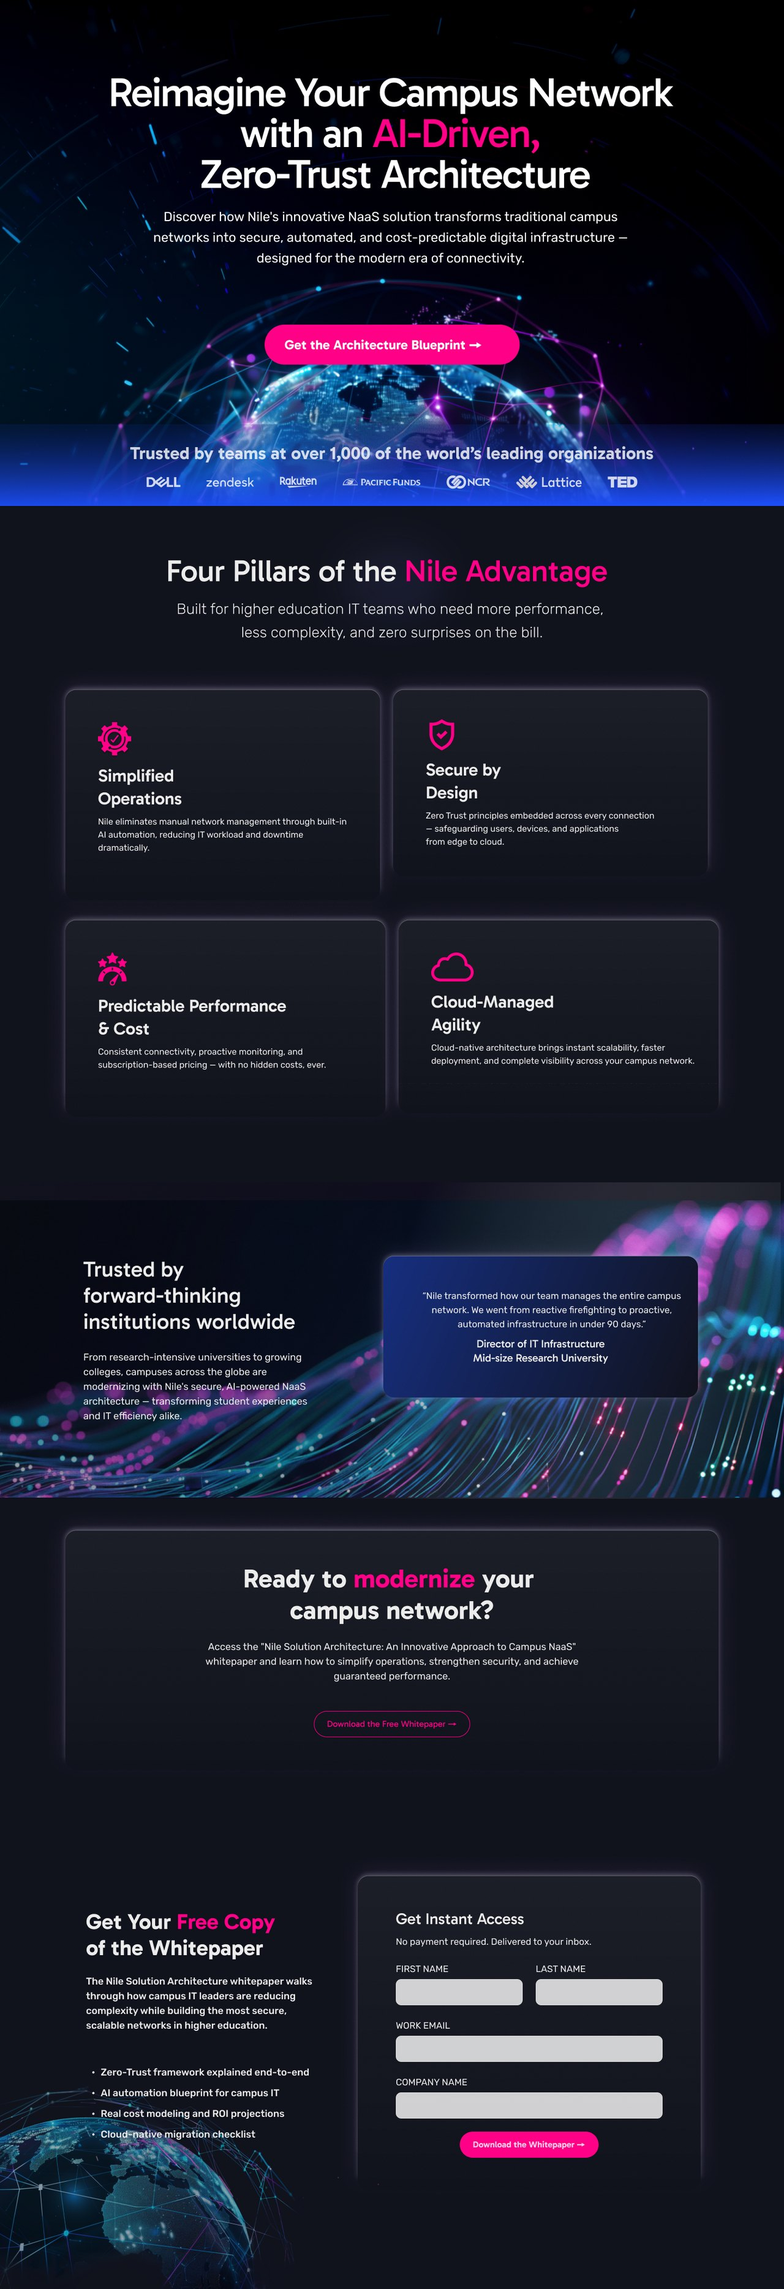
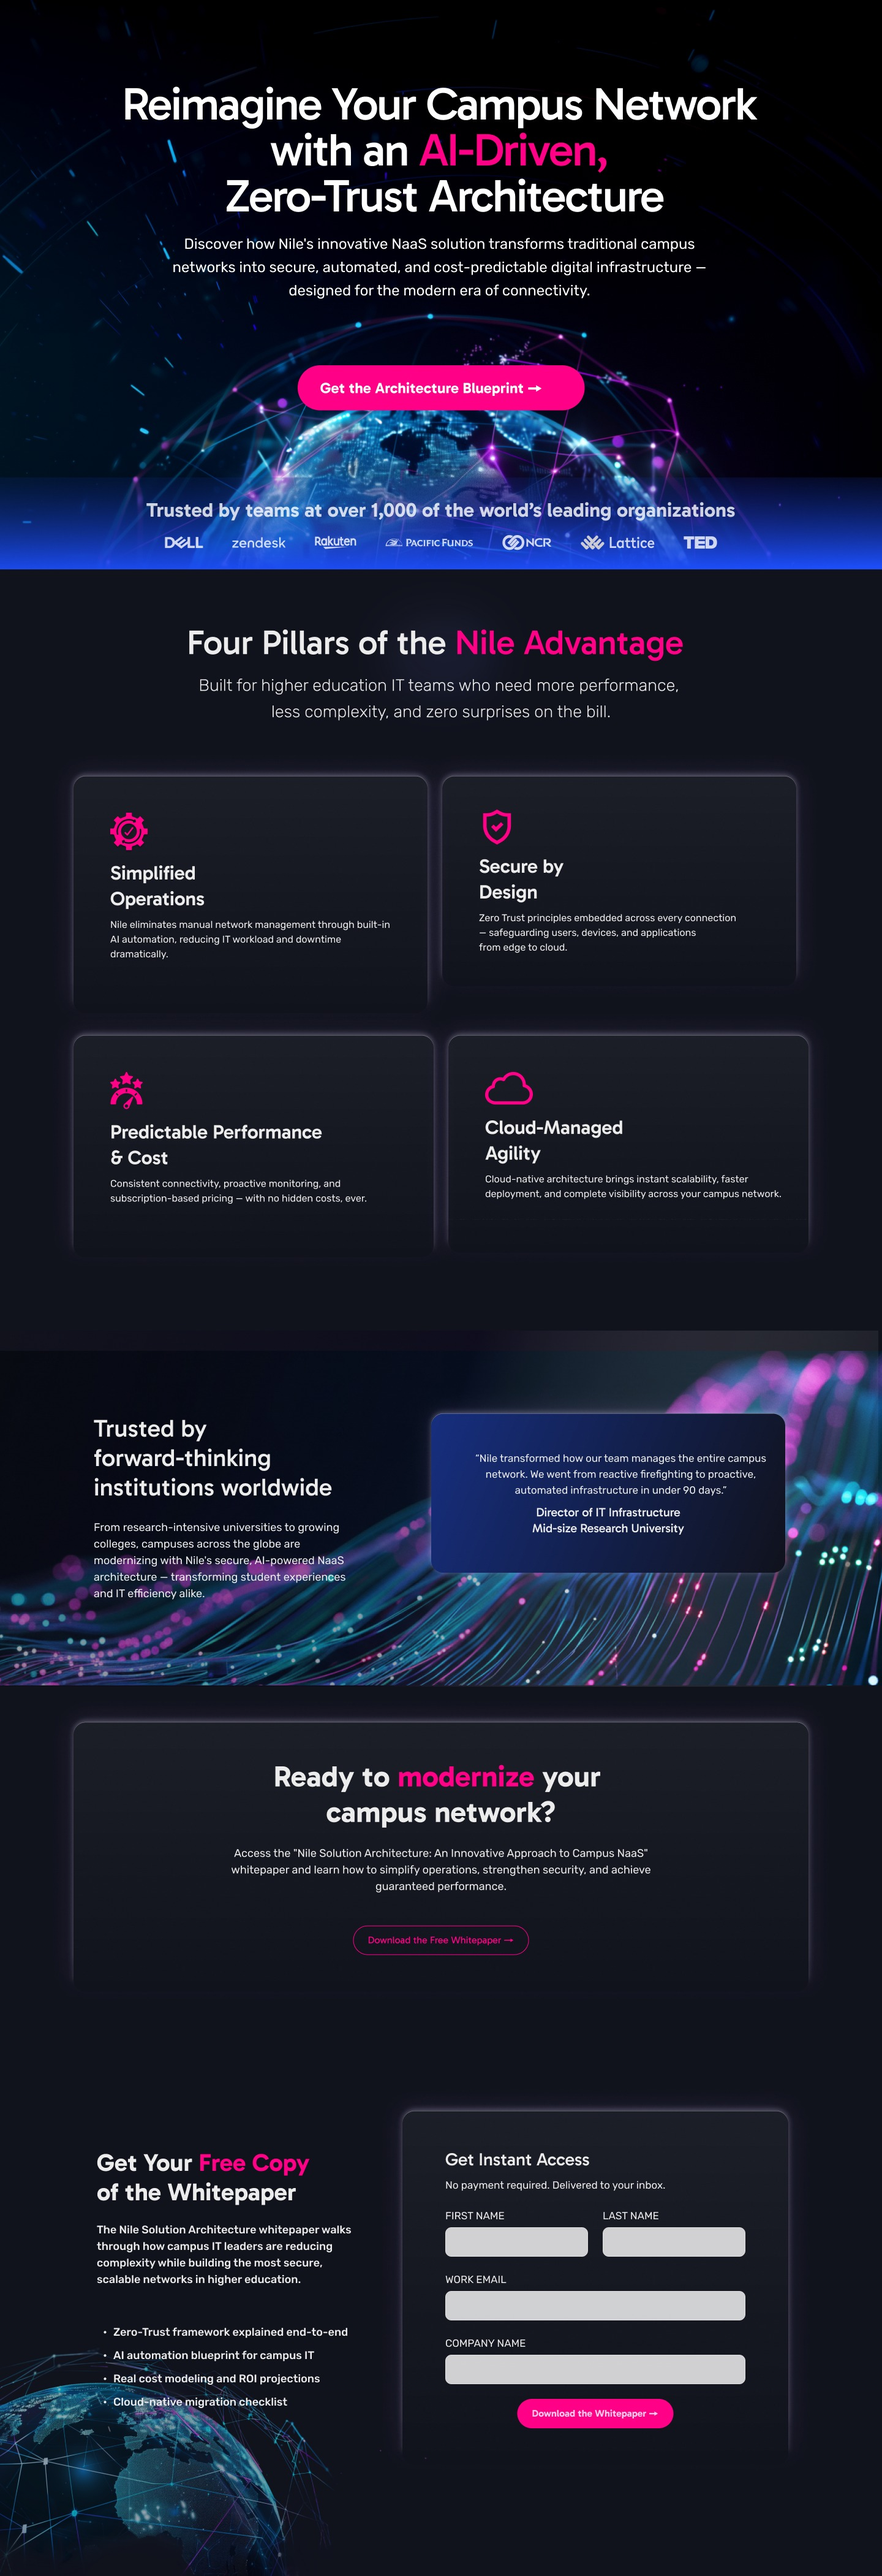
Nile: drop mobile from landing section, show landing full-width
Remove the mobile layout and present the full landing page at full
width, re-saved at native 1440px for maximum fidelity.

Claude-Session: https://claude.ai/code/session_01Pp782JCzyUxxDUfgbCFXi7

Changed region(s): [[0.125, 0.5899, 0.1562, 0.621]]

diff --git a/work/nile.html b/work/nile.html
@@ -81,8 +81,8 @@ footer{padding:1.5rem 2.5rem;border-top:.5px solid var(--border);display:flex;ju
 <section class="prose"><h2>Overview</h2><p>A self-initiated campaign suite for Nile&#x27;s AI-powered campus network, built as concept work ahead of a senior design conversation. It spans a landing page, social creative and display ads, all driving to one asset: the Architecture Blueprint whitepaper.</p></section>
 <section class="prose"><h2>The system</h2><p>Deep navy, fibre-optic light and a single hot-pink call to action. The direction is dark and cinematic — &ldquo;Reimagine your campus network&rdquo; — and the same visual language holds across every format so the campaign reads as one.</p></section>
 <div class="full"><div class="gal2"><figure class="figure"><img loading="lazy" src="../images/work/nile/g1.jpg" alt="Social creative — campaign key frame." /></figure><figure class="figure"><img loading="lazy" src="../images/work/nile/g2.jpg" alt="A second social format." /></figure></div><div class=cap>Social creative — the campaign key frames.</div></div>
-<section class="prose"><h2>The landing page</h2><p>Everything drives to one asset — the Architecture Blueprint whitepaper. The landing page runs from a cinematic hero through a trusted-by logo wall, the &ldquo;four pillars&rdquo; benefit grid and a proof section, down to the download form — designed desktop-first and carried through to a full mobile layout.</p></section>
-<div class="full"><div class="gal2"><figure class="figure"><img loading="lazy" src="../images/work/nile/landing.jpg" alt="Full Nile Secure landing page, top to bottom." /></figure><figure class="figure"><img loading="lazy" src="../images/work/nile/mobile.jpg" alt="The landing page as a responsive mobile layout." /></figure></div><div class=cap>The full landing page, and the same page carried through to mobile.</div></div>
+<section class="prose"><h2>The landing page</h2><p>Everything drives to one asset — the Architecture Blueprint whitepaper. The landing page runs from a cinematic hero through a trusted-by logo wall, the &ldquo;four pillars&rdquo; benefit grid and a proof section, down to the download form.</p></section>
+<div class="full"><figure class="figure"><img loading="lazy" src="../images/work/nile/landing.jpg" alt="Full Nile Secure landing page, top to bottom." /></figure><div class=cap>The full landing page, top to bottom.</div></div>
 <section class="prose"><h2>The LinkedIn carousel</h2><p>A three-beat carousel built for the feed: name the pain, show the shift, make the ask. &ldquo;Tired of complex campus networks?&rdquo; &rarr; &ldquo;Imagine a network that runs itself&rdquo; &rarr; &ldquo;Download the Blueprint.&rdquo;</p></section>
 <div class="full"><div class="gal3"><figure class="figure"><img loading="lazy" src="../images/work/nile/car1.jpg" alt="Carousel slide one — the problem." /></figure><figure class="figure"><img loading="lazy" src="../images/work/nile/car2.jpg" alt="Carousel slide two — the shift." /></figure><figure class="figure"><img loading="lazy" src="../images/work/nile/car3.jpg" alt="Carousel slide three — the call to action." /></figure></div><div class=cap>The LinkedIn carousel — problem, shift, call to action.</div></div>
 <section class="prose"><h2>Display ads</h2><p>The same system, sized for the ad slots that matter — a 300&times;250 medium rectangle and a 160&times;600 skyscraper — so the campaign holds up wherever it runs.</p></section>
